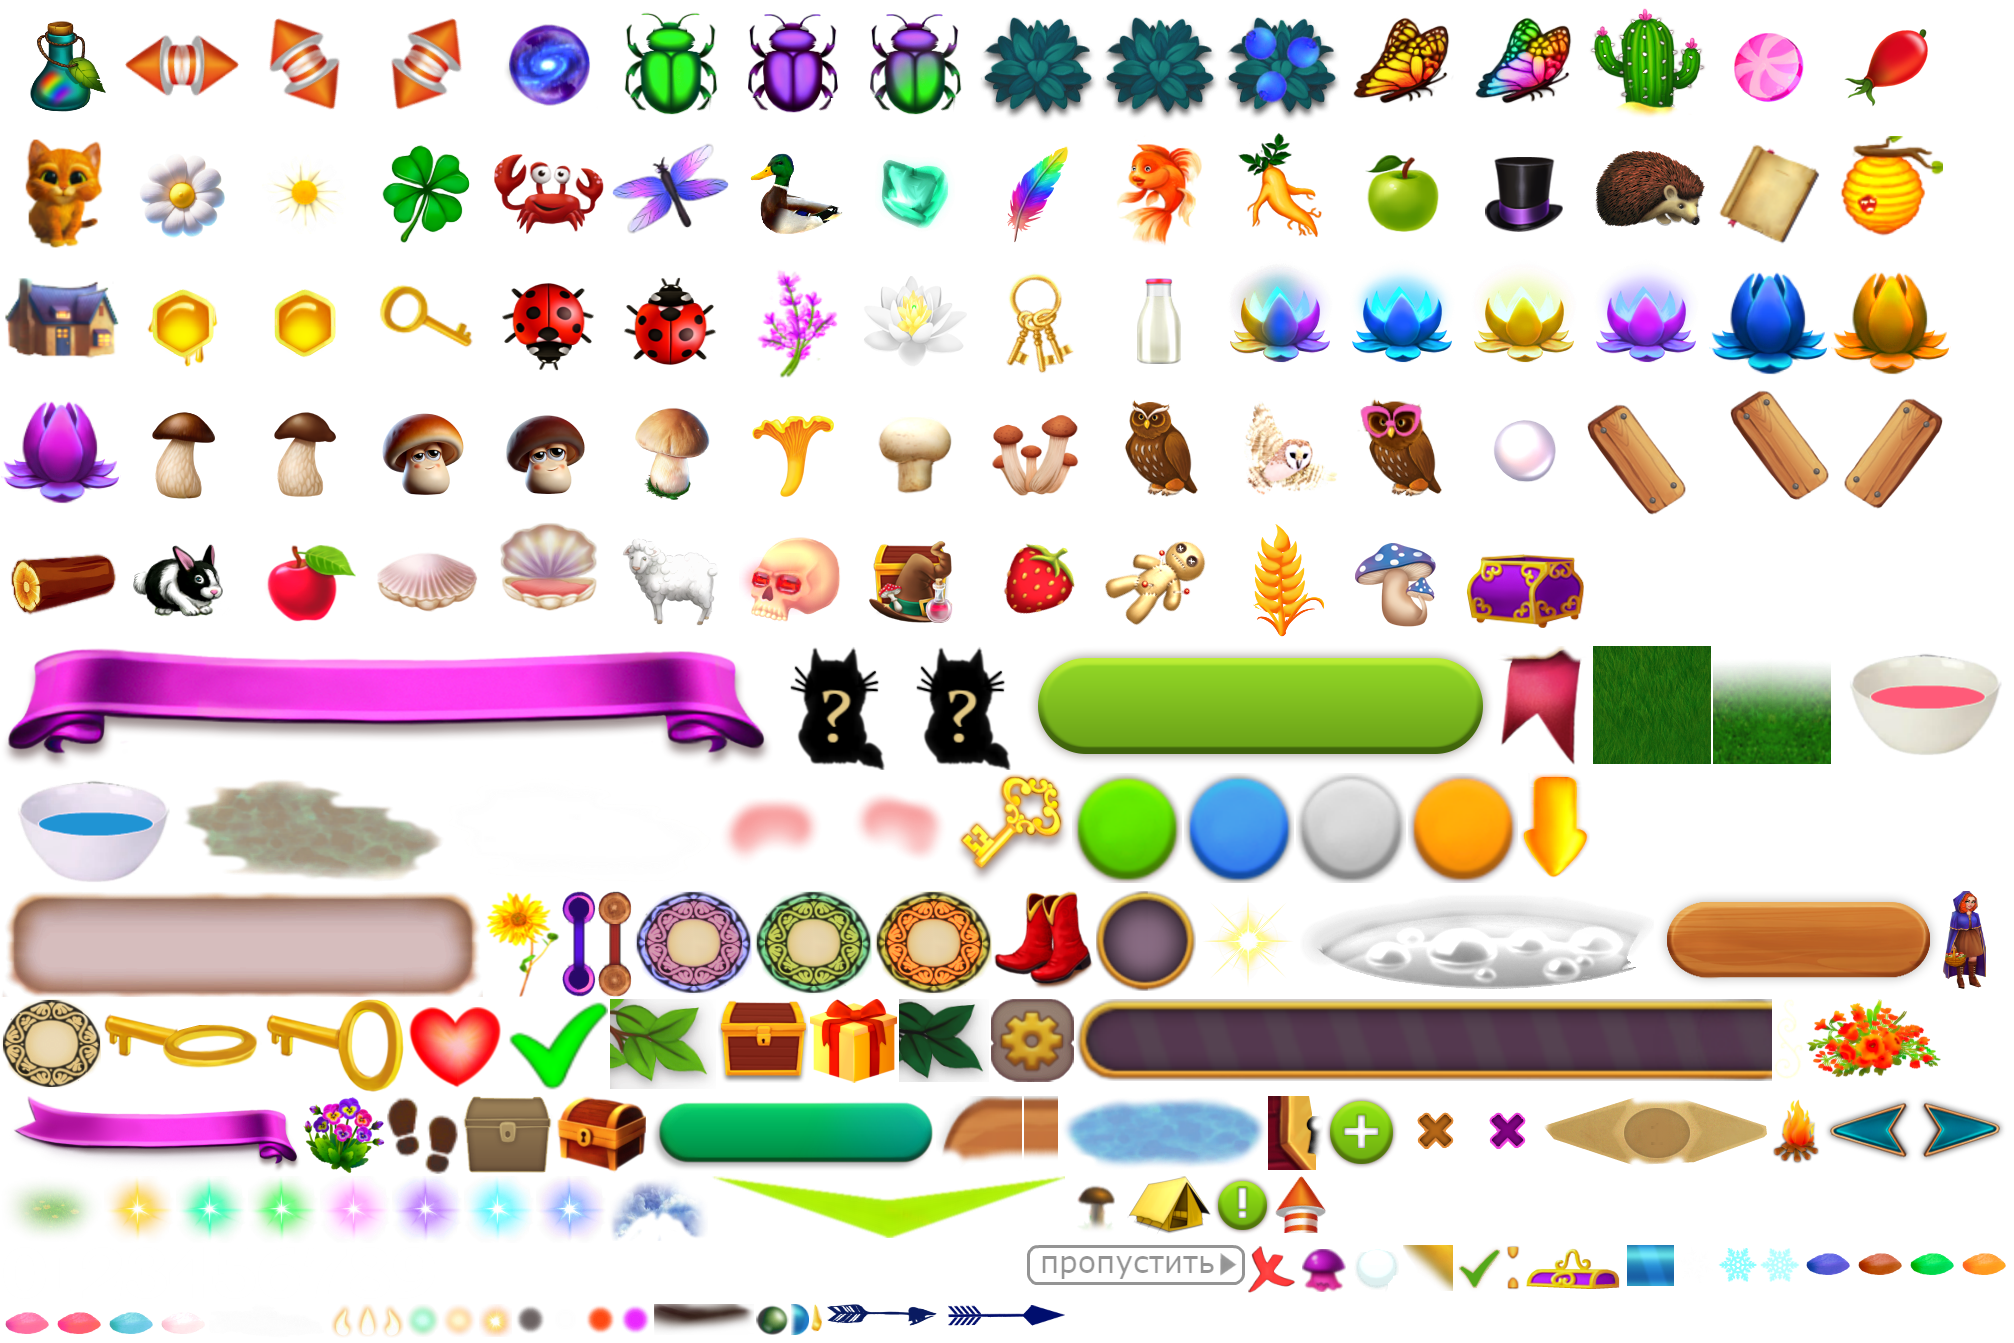
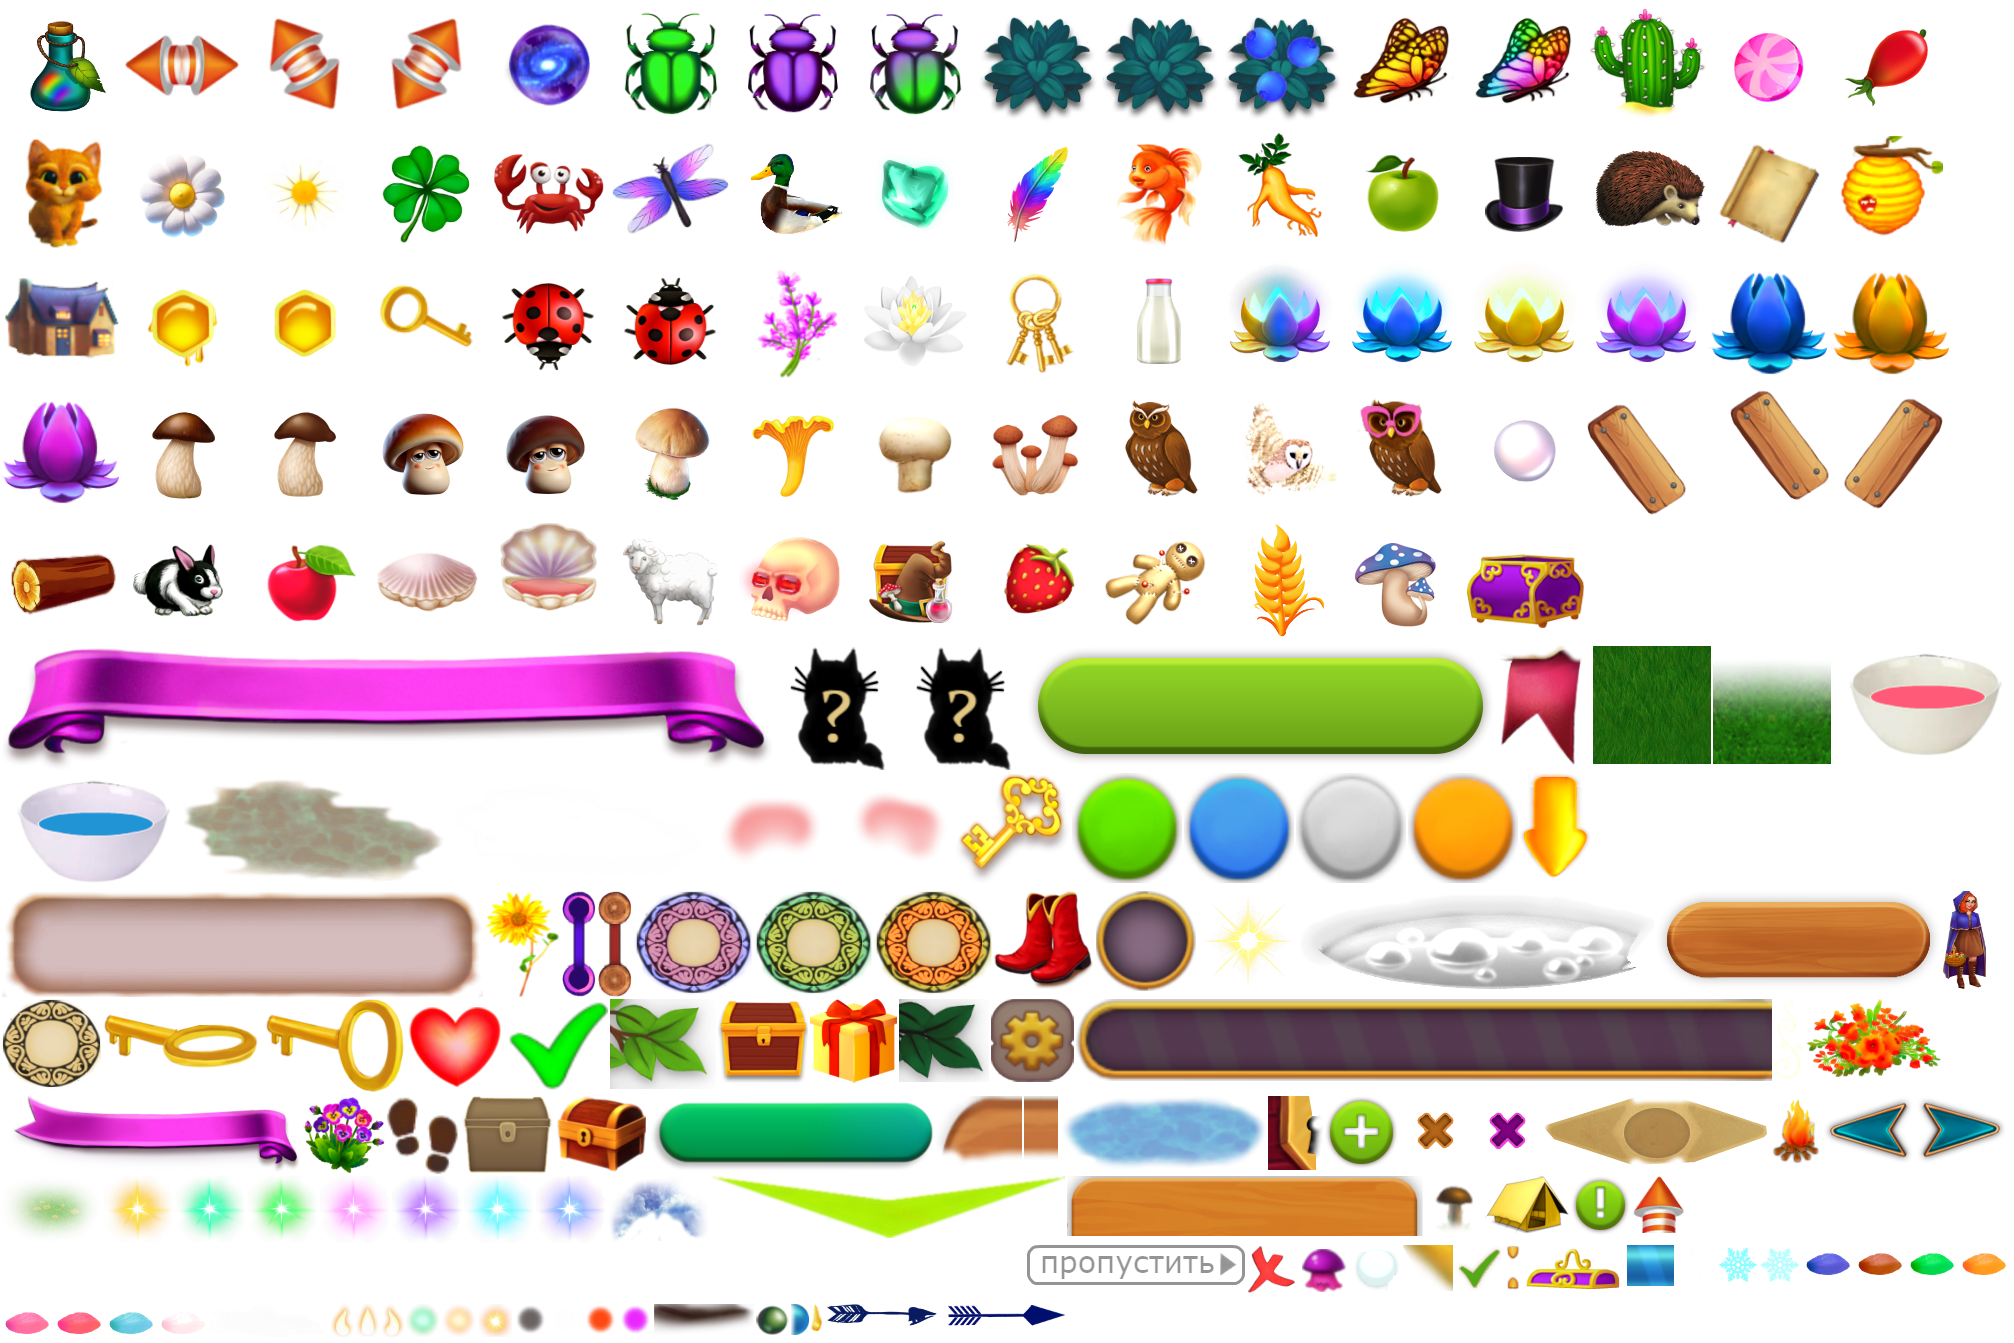
fix task panel

Changed region(s): [[0.5233, 0.8548, 0.8312, 0.9464]]

diff --git a/src/view/component/house/TasksPanel.ts b/src/view/component/house/TasksPanel.ts
@@ -52,7 +52,7 @@ class TaskCardPanel extends BasePanel {
 
         this.rewardPanel = this.attachSprite("helperPanel", "rewardPanel");
         this.rewardPanel.scale.set(0.23, 0.44);
-        this.rewardPanel.alpha = 0.38;
+        // this.rewardPanel.alpha = 0.38;
 
         this.icon = this.attachSprite("mushroom", "taskIcon");
         this.icon.scale.set(0.78);
@@ -119,7 +119,7 @@ class TaskCardPanel extends BasePanel {
 
         this.applyHtmlPreset([
             { "spriteId": "contentPanel", "parentId": "cardBg", "horizontalAlign": "left", "verticalAlign": "center", "offsetX": 46, "offsetY": 0 },
-            { "spriteId": "rewardPanel", "parentId": "cardBg", "horizontalAlign": "right", "verticalAlign": "center", "offsetX": -46, "offsetY": 0 },
+            { "spriteId": "rewardPanel", "parentId": "cardBg", "horizontalAlign": "right", "verticalAlign": "center", "offsetX": -60, "offsetY": 0 },
             { "spriteId": "taskTitle", "parentId": "contentPanel", "horizontalAlign": "left", "verticalAlign": "center", "width": "54%", "offsetX": 24, "offsetY": -2, "fontSize": 22 },
             { "spriteId": "taskIcon", "parentId": "contentPanel", "horizontalAlign": "right", "verticalAlign": "center", "offsetX": -34, "offsetY": 0 },
             { "spriteId": "taskProgress", "parentId": "contentPanel", "horizontalAlign": "right", "verticalAlign": "center", "width": 88, "offsetX": -116, "offsetY": -2, "fontSize": 24 },
@@ -198,16 +198,17 @@ class TaskCardPanel extends BasePanel {
 
         this.background.tint = 0xffffff;
         this.contentPanel.tint = 0xffffff;
-        this.rewardPanel.tint = 0xffffff;
+        this.background.alpha = 0;// = 0xffffff;
+        this.rewardPanel.tint = 0xf5beb0;
         this.titleLabel.fill = "#6f4337";
         this.progressLabel.fill = "#6f4337";
 
         if (isClaimed) {
-            this.rewardPanel.alpha = 0.38;
+            // this.rewardPanel.alpha = 0.7;
             this.rewardTitleLabel.fill = "#7b4037";
             this.rewardLabel.fill = "#7b4037";
         } else {
-            this.rewardPanel.alpha = 0.38;
+            // this.rewardPanel.alpha = 0.7;
             this.rewardTitleLabel.fill = "#7b4037";
             this.rewardLabel.fill = "#7b4037";
         }
@@ -266,6 +267,7 @@ export default class TasksPanel extends ClosablePanel {
     private progressBarTail: Phaser.Sprite;
     private progressStateLabel: Label;
     private resetLabel: Label;
+    private progressMetaStack: StackContainer;
     private subtitleLabel: Label;
     private rewardIcons: Phaser.Sprite[] = [];
     private rewardChecks: Phaser.Sprite[] = [];
@@ -300,18 +302,18 @@ export default class TasksPanel extends ClosablePanel {
         this.panel.y = 18;
         this.panel.inputEnabled = true;
 
-        const titleBg = this.attachSprite("statusPanel", "titleBg");
-        titleBg.scale.set(1.52, 1.18);
+        const titleBg = this.attachSprite("ribbon", "titleBg");
+        titleBg.scale.set(0.7, 1);
 
         const closeButton = this.attachButton("closeButtonViolet", () => this.close(), "closeButton");
 
         this.titleLabel = this.attachText("title", LocalizationService.get("ui.tasks.title", "Задания"), {
-            font: "48px Bookman Old Style",
+            font: "35px Bookman Old Style",
             fill: "#ffffff"
         });
 
-        this.dailyTabButton = this.attachButton("pnlButton", () => this.selectTab("daily"), "dailyTab");
-        this.dailyTabButton.scale.set(0.74, 0.74);
+        this.dailyTabButton = this.attachButton("wooden_tab", () => this.selectTab("daily"), "dailyTab");
+        this.dailyTabButton.scale.set(1.18);
         this.dailyTabLabel = new Label(this.game, 0, 0, LocalizationService.get("ui.tasks.daily", "Ежедневные"), {
             font: "bold 28px Gilroy",
             fill: "#f0f1ec"
@@ -322,8 +324,8 @@ export default class TasksPanel extends ClosablePanel {
         this.dailyTabLabel.addStrokeColor("#61b019", 0);
         this.dailyTabButton.addChild(this.dailyTabLabel);
 
-        this.campaignTabButton = this.attachButton("pnlButton", () => this.selectTab("campaign"), "campaignTab");
-        this.campaignTabButton.scale.set(0.74, 0.74);
+        this.campaignTabButton = this.attachButton("wooden_tab", () => this.selectTab("campaign"), "campaignTab");
+        this.campaignTabButton.scale.set(1.18);
         this.campaignTabLabel = new Label(this.game, 0, 0, LocalizationService.get("ui.tasks.campaign", "Кампания"), {
             font: "bold 28px Gilroy",
             fill: "#f0f1ec"
@@ -380,6 +382,17 @@ export default class TasksPanel extends ClosablePanel {
             wordWrapWidth: 460
         });
 
+        this.progressMetaStack = new StackContainer(this.game, 0, 0, "progressMetaStack", {
+            gap: 6,
+            align: "center",
+            layoutWidth: 620
+        });
+        this.addChild(this.progressMetaStack);
+        this.removeChild(this.progressStateLabel);
+        this.removeChild(this.resetLabel);
+        this.progressMetaStack.addStackChild(this.progressStateLabel);
+        this.progressMetaStack.addStackChild(this.resetLabel);
+
         for (let i = 0; i < 2; i++) {
             let rewardIcon = this.attachSprite(i == 0 ? "gems" : "actionChest", "rewardIcon" + i);
             rewardIcon.scale.set(i == 0 ? 0.42 : 0.52);
@@ -403,7 +416,7 @@ export default class TasksPanel extends ClosablePanel {
         this.taskCardsViewport.add(this.taskCardsDragArea);
 
         this.taskCardsStack = new StackContainer(this.game, 0, 0, "taskCardsStack", {
-            gap: 20,
+            gap: -45,
             align: "center",
             layoutWidth: this.tasksViewportWidth
         });
@@ -457,18 +470,17 @@ export default class TasksPanel extends ClosablePanel {
 
         let htmlPresets: any[] = [
             { "spriteId": "titleBg", "parentId": "panel", "horizontalAlign": "center", "verticalAlign": "top", "offsetY": -54 },
-            { "spriteId": "title", "parentId": "titleBg", "horizontalAlign": "center", "verticalAlign": "center", "width": "88%", "offsetY": -4, "fontSize": 48 },
-            { "spriteId": "closeButton", "parentId": "panel", "horizontalAlign": "right", "verticalAlign": "top", "offsetX": 20, "offsetY": -46 },
-            { "spriteId": "dailyTab", "parentId": "panel", "horizontalAlign": "center", "verticalAlign": "top", "offsetX": -150, "offsetY": 40 },
+            { "spriteId": "title", "parentId": "titleBg", "horizontalAlign": "center", "verticalAlign": "center", "width": "88%", "offsetY": -24, "fontSize": 48 },
+            { "spriteId": "closeButton", "parentId": "titleBg", "horizontalAlign": "right", "verticalAlign": "middle", "offsetX": -35, "offsetY": 0 },
+            { "spriteId": "dailyTab", "parentId": "panel", "horizontalAlign": "center", "verticalAlign": "top", "offsetX": -188, "offsetY": 52 },
             { "spriteId": "dailyTabLabel", "parentId": "dailyTab", "horizontalAlign": "center", "verticalAlign": "center", "width": "86%", "offsetY": 2, "fontSize": 28 },
-            { "spriteId": "campaignTab", "parentId": "panel", "horizontalAlign": "center", "verticalAlign": "top", "offsetX": 150, "offsetY": 40 },
+            { "spriteId": "campaignTab", "parentId": "panel", "horizontalAlign": "center", "verticalAlign": "top", "offsetX": 188, "offsetY": 52 },
             { "spriteId": "campaignTabLabel", "parentId": "campaignTab", "horizontalAlign": "center", "verticalAlign": "center", "width": "86%", "offsetY": 2, "fontSize": 28 },
-            { "spriteId": "subtitle", "parentId": "panel", "horizontalAlign": "center", "verticalAlign": "top", "width": "86%", "offsetY": 132, "fontSize": 24 },
-            { "spriteId": "progressTitle", "parentId": "panel", "horizontalAlign": "center", "verticalAlign": "top", "width": "84%", "offsetY": 174, "fontSize": 28 },
-            { "spriteId": "progressLineBg", "parentId": "panel", "horizontalAlign": "center", "verticalAlign": "top", "offsetY": 224 },
-            { "spriteId": "progressState", "parentId": "panel", "horizontalAlign": "center", "verticalAlign": "top", "width": "84%", "offsetY": 258, "fontSize": 22 },
-            { "spriteId": "resetLabel", "parentId": "panel", "horizontalAlign": "center", "verticalAlign": "top", "width": "84%", "offsetY": 294, "fontSize": 20 },
-            { "spriteId": "taskCardsViewport", "parentId": "panel", "horizontalAlign": "center", "verticalAlign": "top", "offsetY": 404 },
+            { "spriteId": "subtitle", "parentId": "panel", "horizontalAlign": "center", "verticalAlign": "top", "width": "86%", "offsetY": 150, "fontSize": 24 },
+            { "spriteId": "progressTitle", "parentId": "panel", "horizontalAlign": "center", "verticalAlign": "top", "width": "84%", "offsetY": 192, "fontSize": 28 },
+            { "spriteId": "progressLineBg", "parentId": "panel", "horizontalAlign": "center", "verticalAlign": "top", "offsetY": 248 },
+            { "spriteId": "progressMetaStack", "parentId": "progressLineBg", "horizontalAlign": "center", "verticalAlign": "bottom", "offsetY": 18 },
+            { "spriteId": "taskCardsViewport", "parentId": "panel", "horizontalAlign": "center", "verticalAlign": "top", "offsetY": 382 },
             { "spriteId": "taskScrollTrack", "parentId": "taskCardsViewport", "horizontalAlign": "right", "verticalAlign": "top", "offsetX": 16 },
             { "spriteId": "taskScrollThumb", "parentId": "taskCardsViewport", "horizontalAlign": "right", "verticalAlign": "top", "offsetX": 16 }
         ];
@@ -590,8 +602,44 @@ export default class TasksPanel extends ClosablePanel {
     private refreshView(): void {
         this.refreshTabButtons();
         this.refreshChapterButtons();
+        this.updateHeaderLayout();
         this.refreshProgressBlock();
         this.refreshCards();
+    }
+
+    private updateHeaderLayout(): void {
+        let showChapters = this.selectedTab == "campaign";
+        let subtitleY = showChapters ? 186 : 150;
+        let progressTitleY = showChapters ? 224 : 192;
+        let progressLineY = showChapters ? 280 : 248;
+        let viewportY = showChapters ? 420 : 382;
+
+        let headerPresets: any[] = [
+            { "spriteId": "dailyTab", "parentId": "panel", "horizontalAlign": "center", "verticalAlign": "top", "offsetX": -208, "offsetY": 47 },
+            { "spriteId": "campaignTab", "parentId": "panel", "horizontalAlign": "center", "verticalAlign": "top", "offsetX": 208, "offsetY": 47 },
+            { "spriteId": "subtitle", "parentId": "panel", "horizontalAlign": "center", "verticalAlign": "top", "width": "86%", "offsetY": subtitleY, "fontSize": 24 },
+            { "spriteId": "progressTitle", "parentId": "panel", "horizontalAlign": "center", "verticalAlign": "top", "width": "84%", "offsetY": progressTitleY, "fontSize": 28 },
+            { "spriteId": "progressLineBg", "parentId": "panel", "horizontalAlign": "center", "verticalAlign": "top", "offsetY": progressLineY },
+            { "spriteId": "progressMetaStack", "parentId": "progressLineBg", "horizontalAlign": "center", "verticalAlign": "bottom", "offsetY": 18 },
+            { "spriteId": "taskCardsViewport", "parentId": "panel", "horizontalAlign": "center", "verticalAlign": "top", "offsetY": viewportY },
+            { "spriteId": "taskScrollTrack", "parentId": "taskCardsViewport", "horizontalAlign": "right", "verticalAlign": "top", "offsetX": 16 },
+            { "spriteId": "taskScrollThumb", "parentId": "taskCardsViewport", "horizontalAlign": "right", "verticalAlign": "top", "offsetX": 16 }
+        ];
+
+        this.chapterButtons.forEach((_button, index) => {
+            headerPresets.push({
+                "spriteId": "chapterTab" + index,
+                "parentId": "panel",
+                "horizontalAlign": "center",
+                "verticalAlign": "top",
+                "offsetX": -150 + index * 150,
+                "offsetY": 116
+            });
+        });
+
+        this.progressMetaStack.relayout();
+        this.applyHtmlPreset(headerPresets);
+        this.configureTaskViewport();
     }
 
     private refreshTabButtons(): void {
@@ -602,7 +650,7 @@ export default class TasksPanel extends ClosablePanel {
 
     private refreshChapterButtons(): void {
         let chapters = TaskService.getCampaignChapterViews();
-        let showChapters = this.selectedTab == "campaign";
+        let showChapters = false;//this.selectedTab == "campaign";
 
         this.chapterButtons.forEach((button, index) => {
             let chapter = chapters[index];
@@ -645,6 +693,7 @@ export default class TasksPanel extends ClosablePanel {
             this.resetLabel.text = LocalizationService.get("ui.tasks.refreshIn", "Обновление через {time}")
                 .replace("{time}", this.formatDuration(EnergyUtils.getMillisToNextMoscowMidnight()));
 
+            this.progressMetaStack.relayout();
             this.updateProgressBar(claimedTasks / totalTasks, dailyRewards);
             return;
         }
@@ -656,8 +705,10 @@ export default class TasksPanel extends ClosablePanel {
         this.subtitleLabel.text = LocalizationService.get("ui.tasks.chapterHint", "Все задания текущей главы доступны сразу");
         this.progressTitle.text = chapterView.chapter.title;
         this.progressStateLabel.text = chapterView.claimedTasks + " / " + chapterView.totalTasks + " заданий завершено";
+        this.progressStateLabel.visible = false;
         this.resetLabel.visible = false;
 
+        this.progressMetaStack.relayout();
         this.updateProgressBar(chapterView.claimedTasks / Math.max(1, chapterView.totalTasks), [rewardView]);
     }
 
@@ -783,9 +834,12 @@ export default class TasksPanel extends ClosablePanel {
         let clampedRatio = Math.max(0, Math.min(1, progressRatio || 0));
         let lineWidth = this.progressLineBg.width;
         let bodyWidth = Math.max(16, lineWidth * clampedRatio);
+        let lineLeft = this.progressLineBg.x - this.progressLineBg.width / 2;
+        let rewardLeft = lineLeft + 34;
+        let rewardRight = lineLeft + this.progressLineBg.width - 34;
 
         this.progressBarBody.scale = this.progressBarStart.scale;
-        this.progressBarBody.x = this.progressLineBg.x - this.progressLineBg.width / 2 + 6;
+        this.progressBarBody.x = lineLeft + 6;
         this.progressBarBody.y = this.progressLineBg.y;
         this.progressBarBody.width = bodyWidth;
 
@@ -807,13 +861,22 @@ export default class TasksPanel extends ClosablePanel {
             icon.scale.set(this.getRewardScale(reward.icon));
 
             let rewardRatio = reward.progressTarget / Math.max(1, rewards[rewards.length - 1].progressTarget);
-            icon.x = this.progressLineBg.x - this.progressLineBg.width / 2 + this.progressLineBg.width * rewardRatio;
-            this.rewardChecks[index].x = icon.x + 18;
+            icon.x = rewardLeft + (rewardRight - rewardLeft) * rewardRatio;
+            icon.y = this.progressLineBg.y - 2;
+            this.rewardChecks[index].x = icon.x + 16;
+            this.rewardChecks[index].y = icon.y - 16;
         });
+
+        this.bringChildToTop(this.progressBarStart);
+        this.setChildIndex(this.progressBarBody, this.children.length - 1);
+        this.bringChildToTop(this.progressBarTail);
+        this.setChildIndex(this.progressMetaStack, this.children.length - 1);
+        this.rewardIcons.forEach(icon => this.bringChildToTop(icon));
+        this.rewardChecks.forEach(check => this.bringChildToTop(check));
     }
 
     private setTabState(button: Phaser.Button, label: Label, selected: boolean): void {
-        button.tint = selected ? 0x86dc28 : 0xbf8540;
+        button.tint = selected ? 0xffffff : 0xbf8540;
         button.alpha = 1;
         label.fill = "#f0f1ec";
     }

diff --git a/src/view/screen/LoadingScreen.ts b/src/view/screen/LoadingScreen.ts
@@ -321,6 +321,7 @@ export default class LoadingScreen extends BaseScreen {
         this.loadImage('closeButton', 'assets/base/ui/closeButton.png');
         this.loadImage('closeButtonViolet', 'assets/base/ui/closeButtonViolet.png');
         this.loadImage('pnlButton', 'assets/base/ui/pnlButton.png');
+        this.loadImage('wooden_tab', 'assets/base/ui/wooden_tab.png');
         this.loadImage('banner1', 'assets/base/ui/banner1.png');
         this.loadImage('banner2', 'assets/minigame2/banner2.png');
         // this.loadImage('banner3', 'assets/minigame3/banner3.png');
